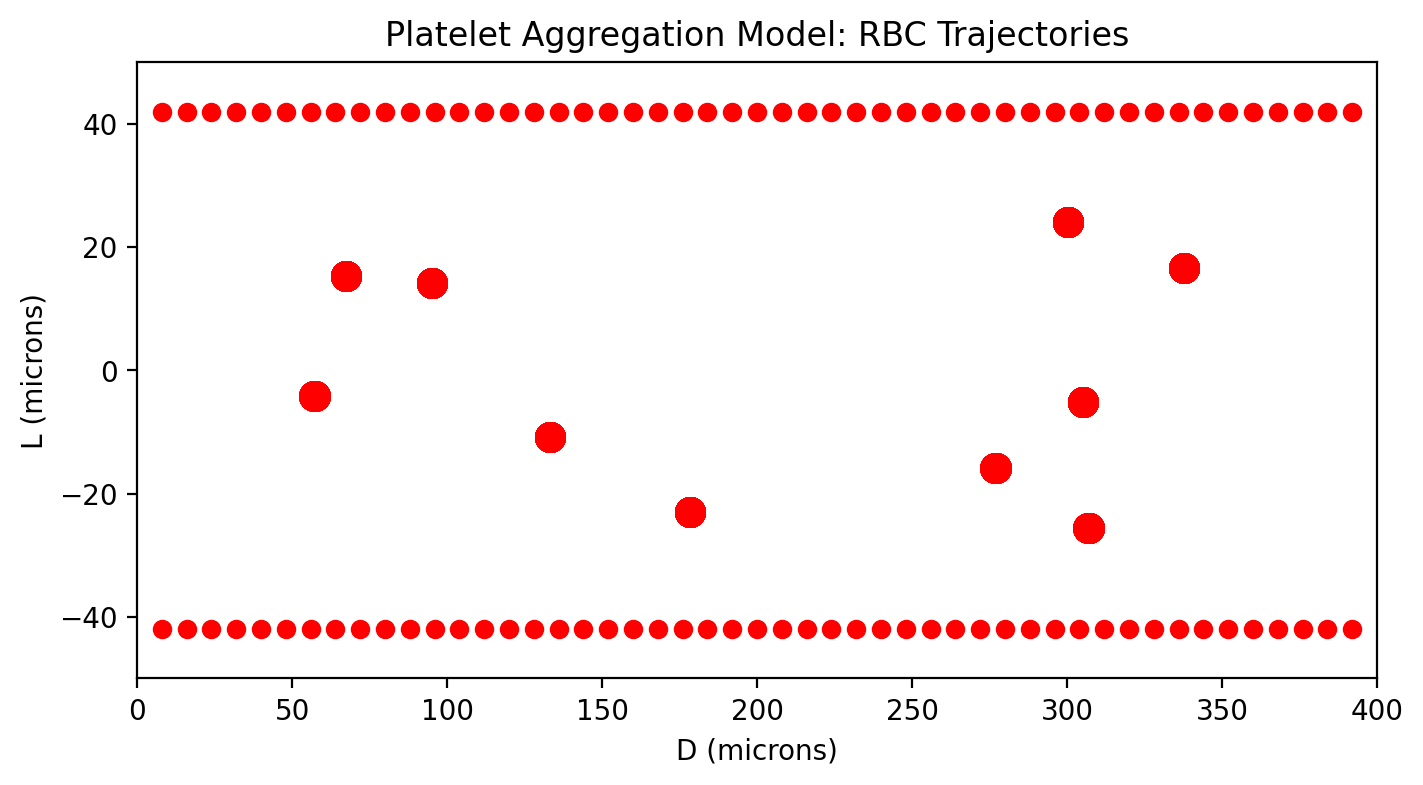
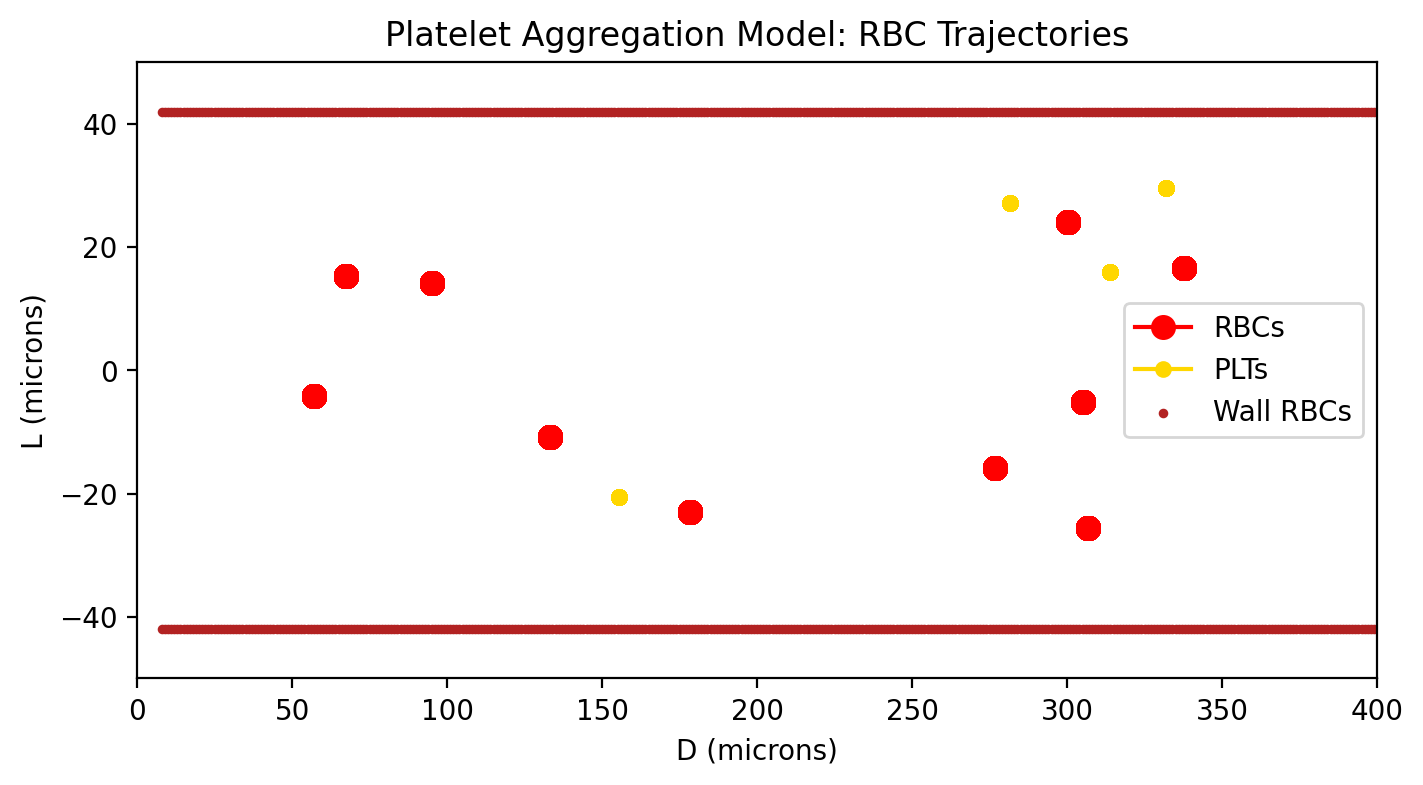
added plt simulation, polished graph

diff --git a/BloodClotting/assets/model_functions.py b/BloodClotting/assets/model_functions.py
@@ -1,5 +1,6 @@
 import numpy as np
 
+#Function to create a generic particle dictionary with the specified parameters
 def make_particle(kind, radius, mass, position, velocity=None, activated=False, fixed=False):
     """Create a particle dictionary with NumPy position and velocity vectors."""
     if velocity is None:
@@ -14,7 +15,7 @@ def make_particle(kind, radius, mass, position, velocity=None, activated=False, 
         "activated": activated,
         "fixed": fixed,
     }
-
+#Function to create an RBC particle with the specified parameters
 def make_rbc(radius, mass, position, velocity=None, fixed=False):
     """Create one red blood cell particle."""
     return make_particle("RBC", radius, mass, position, velocity, fixed=fixed)
@@ -95,7 +96,7 @@ def sample_non_overlapping_positions(count,radius,x_bounds,y_bounds,rng,existing
 #Function to create fixed RBC particles along the upper and lower vessel walls
 def make_wall_rbc_particles(length, vessel_radius, radius, mass):
     """Create fixed RBC particles along the upper and lower vessel walls."""
-    x_positions = np.arange(radius, length, radius)
+    x_positions = np.arange(radius, length)
     wall_y = vessel_radius - radius
     wall_positions = []
 
@@ -119,10 +120,16 @@ def drag_force(particle, viscosity, vessel_radius, max_velocity):
     )
     v_particle = particle["vel"]
 
-    return 6 * np.pi * viscosity * particle["radius"] * (u_fluid - v_particle)
+    return 6 * np.pi * viscosity * particle["radius"] * (u_fluid - v_particle) #Viscious drag force based on Stokes' law for a sphere in a fluid
 
+
+def drag_relaxation_time(particle, viscosity):
+    """Characteristic drag relaxation time m / (6*pi*mu*r) for one particle."""
+    return particle["mass"] / (6 * np.pi * viscosity * particle["radius"])
+
+#Function to calculate the pairwise contact force between two particles based on a repulsive spring model
 def pairwise_contact_force(particle, other_particle, spring_constant):
-    """Return the repulsive spring force on particle due to overlap with other_particle."""
+    """Repulsive spring force if particles overlap, zero otherwise."""
     displacement = particle["pos"] - other_particle["pos"]
     distance = np.linalg.norm(displacement)
     cutoff = particle["radius"] + other_particle["radius"]
@@ -138,9 +145,9 @@ def pairwise_contact_force(particle, other_particle, spring_constant):
 
     return spring_constant * overlap * direction
 
-
+#Function to calculate the total contact force on a particle from all other particles using the pairwise contact force
 def contact_force(particle, moving_particles, fixed_particles, spring_constant, self_index):
-    """Return the total contact force on a particle from moving and fixed neighbors."""
+    """Total contact force on a particle from all other particles using the pairwise contact force."""
     total_force = np.zeros(2)
 
     for index, other_particle in enumerate(moving_particles):
@@ -153,8 +160,8 @@ def contact_force(particle, moving_particles, fixed_particles, spring_constant, 
 
     return total_force
 
-
-def update_particle_drag_only(particle, dt, viscosity, vessel_radius, max_velocity):
+#Function to update a single particle's velocity and position based on drag force only 
+def update_my_particle_drag(particle, dt, viscosity, vessel_radius, max_velocity):
     """Update the particle's velocity and position based on the drag force."""
     f_drag = drag_force(particle, viscosity, vessel_radius, max_velocity)
     acceleration = f_drag / particle["mass"]
@@ -186,6 +193,3 @@ def update_particles_with_contact(particles,fixed_particles,dt,viscosity,vessel_
         particles[index]["pos"] = snapshot["pos"] + particles[index]["vel"] * dt
 
     return particles
-
-#Temporary alias to avoid breaking earlier code while refactoring.
-update_my_particle_drag = update_particle_drag_only

diff --git a/BloodClotting/run_model.py b/BloodClotting/run_model.py
@@ -6,6 +6,7 @@ import numpy as np
 import matplotlib.pyplot as plt
 
 from assets.model_functions import (
+    drag_relaxation_time,
     make_plt,
     make_plt_population,
     make_wall_rbc_particles,
@@ -17,11 +18,11 @@ from assets.model_functions import (
 #Parameters for the RBCs and PLTs
 rbc_radius = 8.0 #microns
 rbc_mass = 1.1 #nanograms
-plt_radius = None #microns
-plt_mass = None #nanograms
+plt_radius = 1.5 #microns
+plt_mass = 0.0124 #nanograms
 
 n_rbcs = 10 #number of RBCs to simulate
-n_plts = 0 #number of platelets to simulate
+n_plts = 4 #number of platelets to simulate
 rng_seed = 42 #seed for reproducibility
 k_contact = 0.1 #contact spring stiffness
 
@@ -71,6 +72,14 @@ if n_plts > 0:
 
 particles = rbc_particles + plt_particles
 
+#Use a timestep smaller than the fastest drag relaxation timescale.
+if particles:
+    min_relaxation_time = min(
+        drag_relaxation_time(particle, mu) for particle in particles
+    )
+    dt = min(dt, 0.05 * min_relaxation_time)
+    print(f"Using dt = {dt:.3e} s")
+
 #Run the simulation for every RBC
 position_history = [[] for _ in particles] #list of lists to store position history for each particle
 
@@ -92,16 +101,32 @@ for step in range(n_steps):
             )
 #Plotting the trajectories of the RBCs
 plt.figure(figsize=(8, 4))
-for i, history in enumerate(position_history):
+plotted_labels = set()
+for particle, history in zip(particles, position_history):
     history = np.array(history)
-    plt.plot(history[:, 0], history[:, 1], label="RBCs", color="red", marker='o', markersize=10)  
+    if particle["kind"] == "RBC":
+        color = "red"
+        marker_size = 8
+        label = "RBCs"
+    else:
+        color = "gold"
+        marker_size = 5
+        label = "PLTs"
+
+    if label in plotted_labels:
+        label = None
+    else:
+        plotted_labels.add(label)
+
+    plt.plot(history[:, 0],history[:, 1],label=label,color=color,marker="o",markersize=marker_size)
 wall_positions = np.array([particle["pos"] for particle in wall_particles])
-plt.scatter(wall_positions[:, 0], wall_positions[:, 1], label="Wall RBCs", color="red", marker='o', s=36)
+plt.scatter(wall_positions[:, 0],wall_positions[:, 1],label="Wall RBCs",color="firebrick",marker="o",s=6)
 plt.xlabel("D (microns)")
 plt.ylabel("L (microns)")
 plt.title("Platelet Aggregation Model: RBC Trajectories")
 plt.xlim(0, L)
 plt.ylim(-R, R)
+plt.legend()
 os.makedirs("figs", exist_ok=True)
 plt.savefig(os.path.join("figs", "RBC_Trajectories.png"), dpi=200, bbox_inches="tight")
 plt.close()
